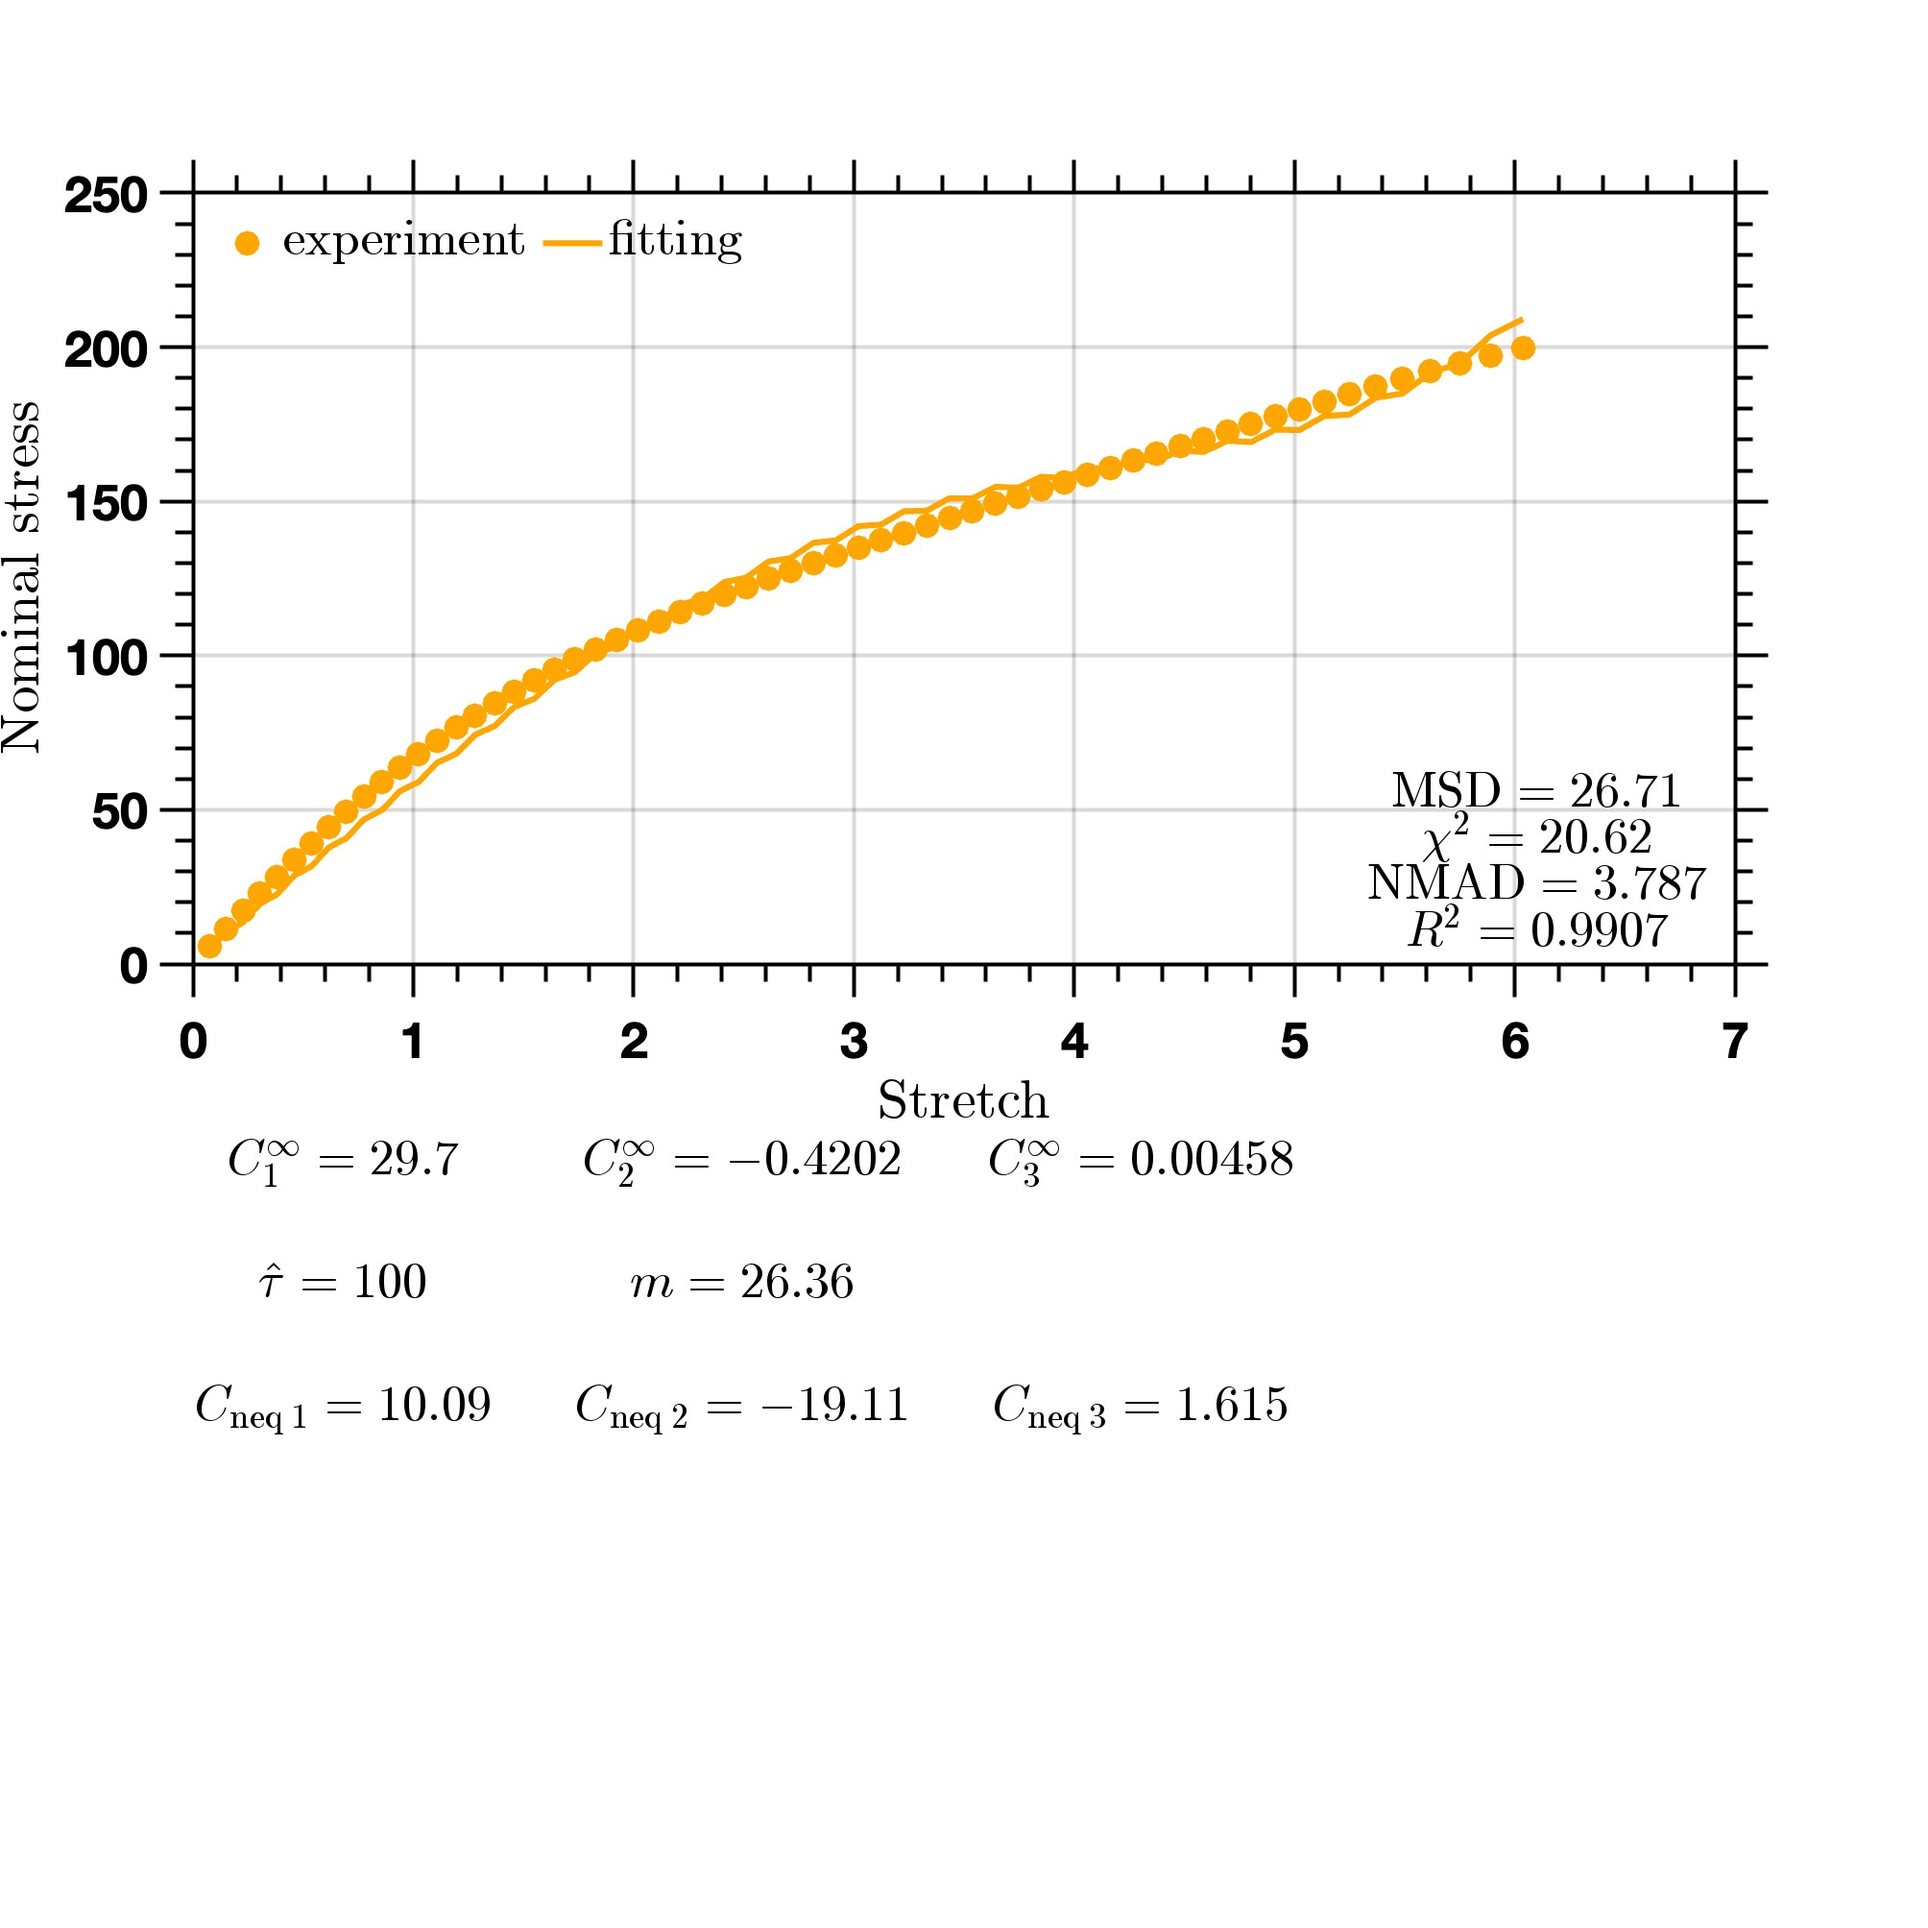
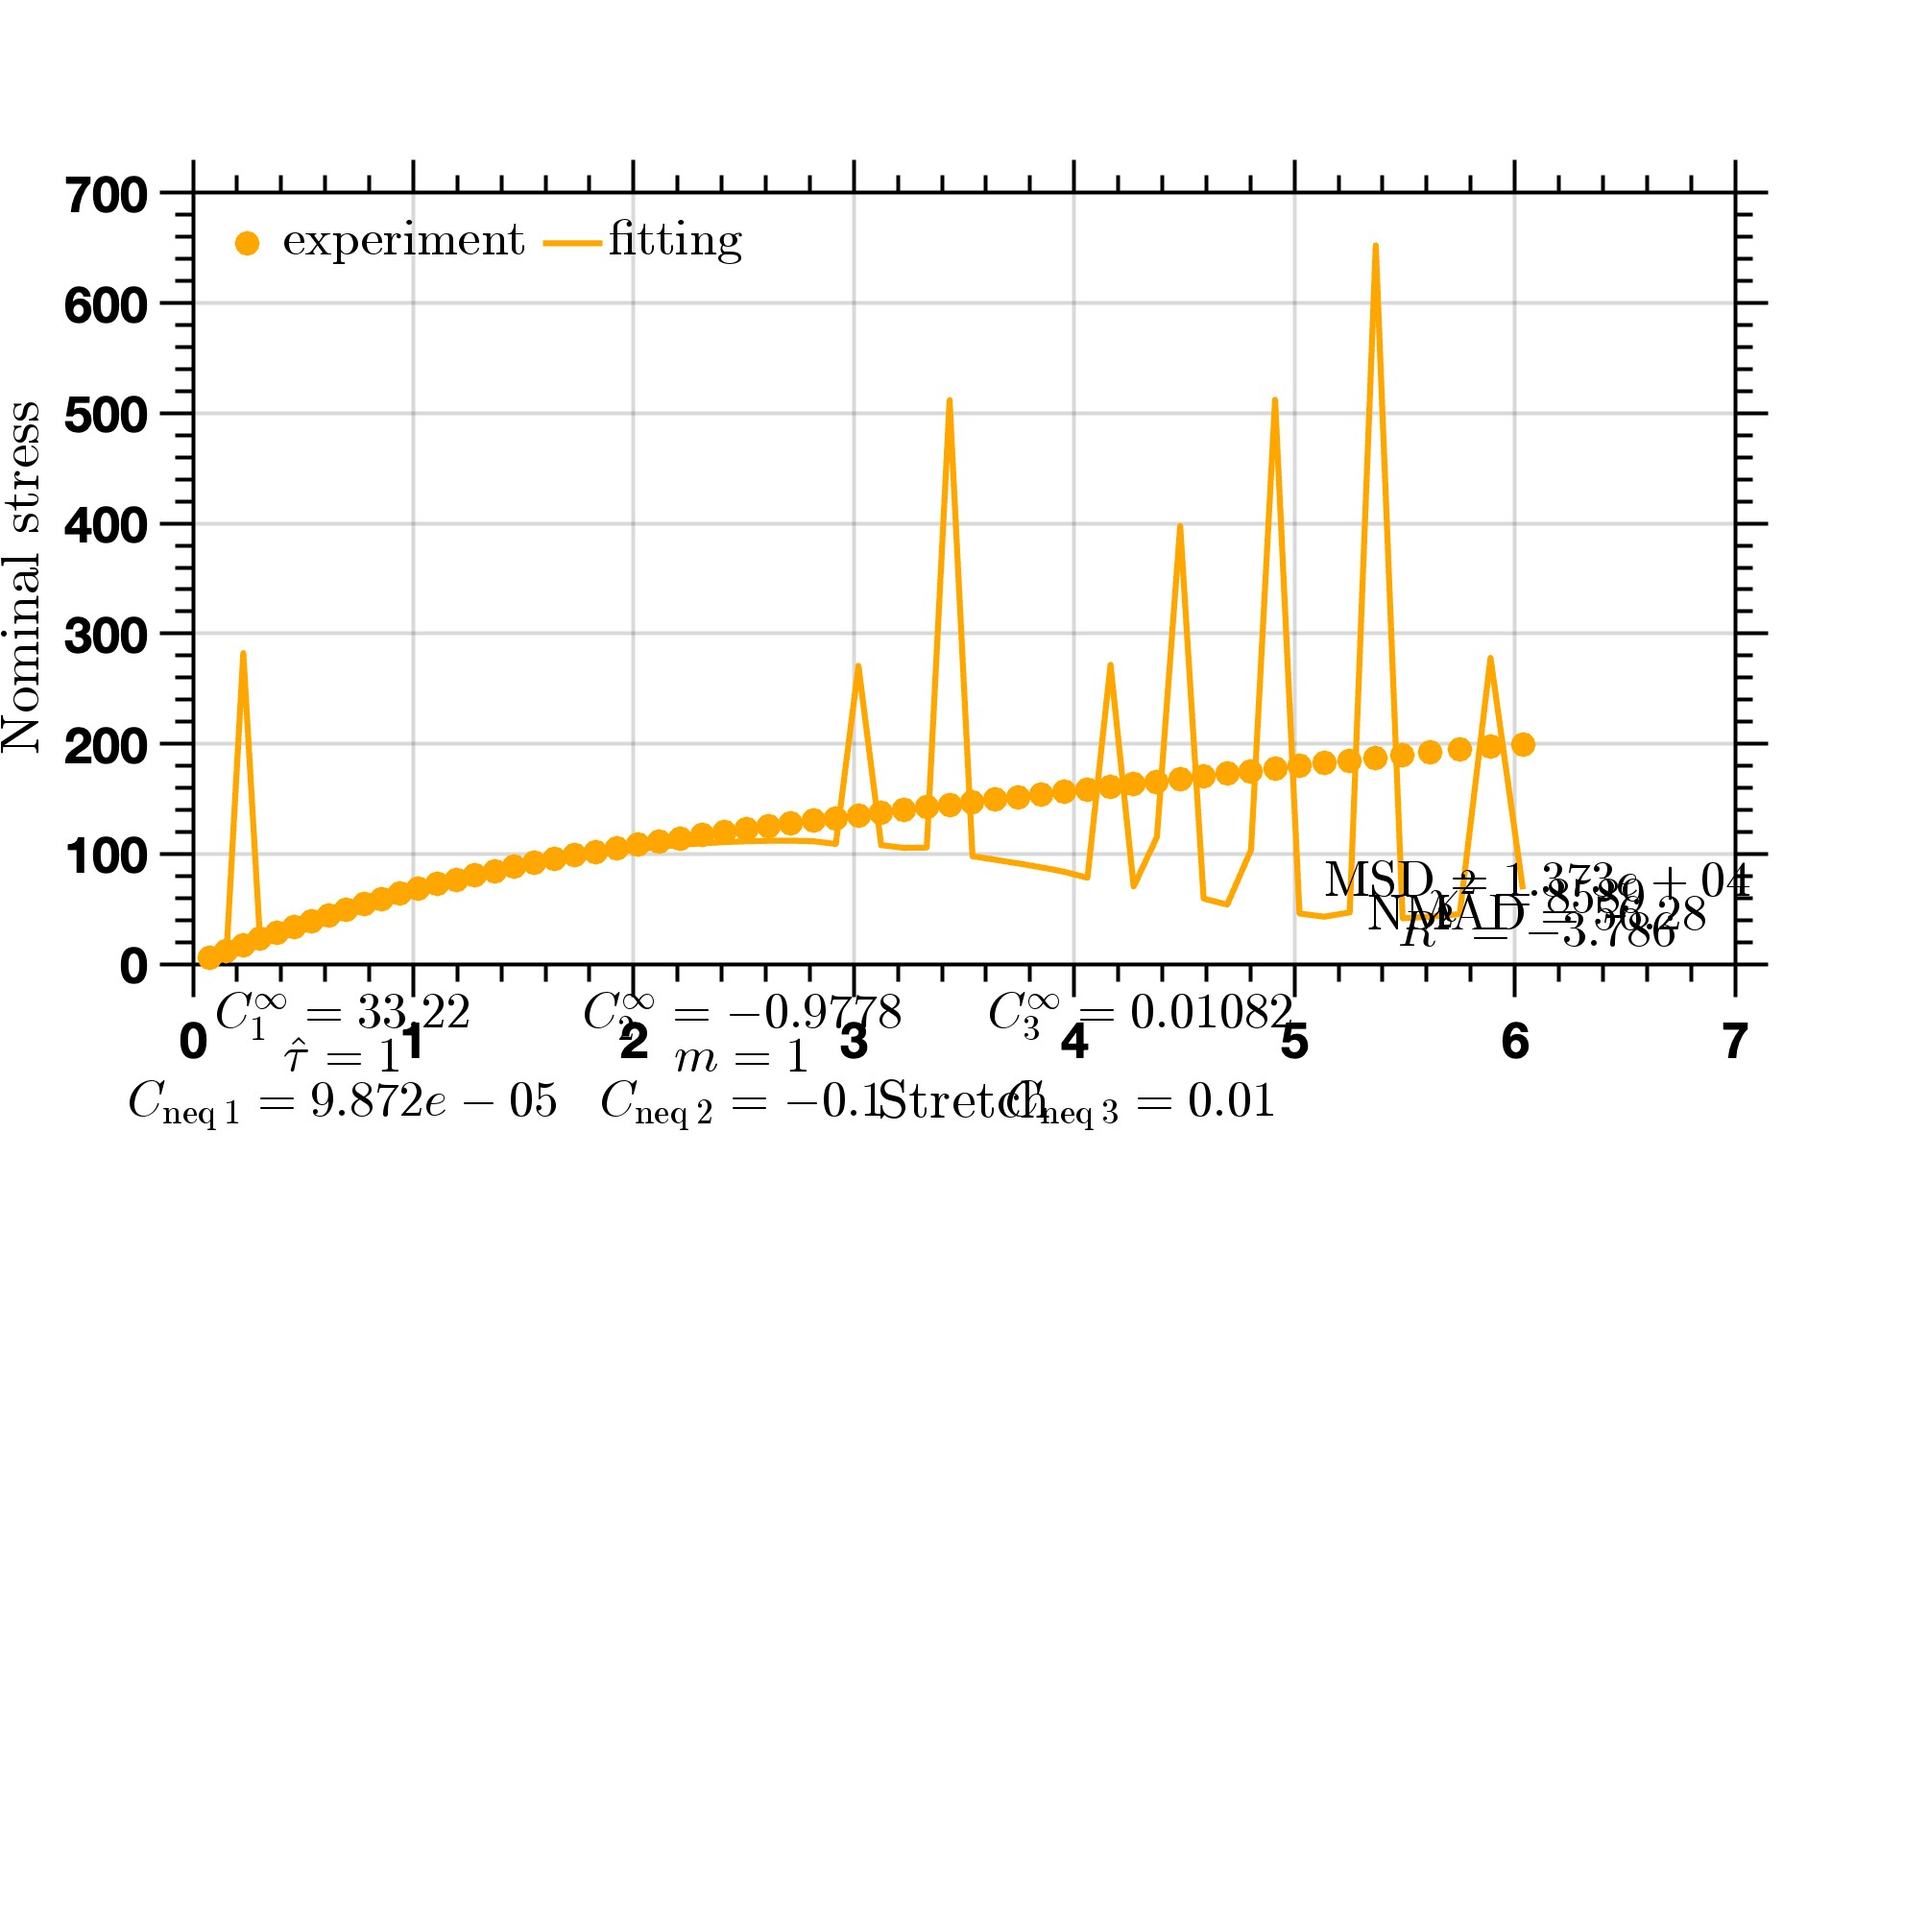
update

diff --git a/power_law_Yeoh_shear/src/get_S_iso_eq.m b/power_law_Yeoh_shear/src/get_S_iso_eq.m
@@ -1,18 +1,25 @@
-% mu_eq and alpha_eq are parameter arrays
-% F is the 3x3 deformation gradient at one specific time
-% out is a 3x3 2nd PK stress tensor of equlibrium part at cooresponding time
-
 function out = get_S_iso_eq(xi_eq, F)
 C = transpose(F)*F;
 [V, D] = eig(C);
-I1 = D(1,1) + D(2,2) + D(3,3);
+N1 = V(:,1);
+N2 = V(:,2);
+N3 = V(:,3);
 lambda1 = sqrt(D(1,1));
 lambda2 = sqrt(D(2,2));
 lambda3 = sqrt(D(3,3));
+lambda1_bar = lambda1 / (lambda1*lambda2*lambda3);
+lambda2_bar = lambda2 / (lambda1*lambda2*lambda3);
+lambda3_bar = lambda3 / (lambda1*lambda2*lambda3);
+I1_bar = lambda1_bar*lambda1_bar + lambda2_bar*lambda2_bar + lambda3_bar*lambda3_bar;
 
-eig_val_S_eq = [dPsi_dlambda_eq(xi_eq, I1, lambda1) / lambda1;...
-                dPsi_dlambda_eq(xi_eq, I1, lambda2) / lambda2;...
-                dPsi_dlambda_eq(xi_eq, I1, lambda3) / lambda3];
-out = tensor_product(V, eig_val_S_eq);
+summation = lambda1_bar * dPsi_dlambda_eq(xi_eq, I1_bar, lambda1_bar)...
+          + lambda2_bar * dPsi_dlambda_eq(xi_eq, I1_bar, lambda2_bar)...
+          + lambda3_bar * dPsi_dlambda_eq(xi_eq, I1_bar, lambda3_bar);
+summation = summation / 3.0;
+
+S_eq_1 = (lambda1_bar * dPsi_dlambda_eq(xi_eq, I1_bar, lambda1_bar) - summation) / lambda1^2;
+S_eq_2 = (lambda2_bar * dPsi_dlambda_eq(xi_eq, I1_bar, lambda2_bar) - summation) / lambda2^2;
+S_eq_3 = (lambda3_bar * dPsi_dlambda_eq(xi_eq, I1_bar, lambda3_bar) - summation) / lambda3^2;
+out = tensor_product(S_eq_1, S_eq_2, S_eq_3, N1, N2, N3);
 end
 % EOF

diff --git a/power_law_Yeoh_shear/src/get_S_iso_neq.m b/power_law_Yeoh_shear/src/get_S_iso_neq.m
@@ -1,21 +1,4 @@
-% mu_neq and alpha_neq are parameter arrays with same length
-% F is the 3x3 deformation gradient at one specific time
-% be is the elastic left-Cauchy Green strain tensor at one specific time
-% out is a 3x3 2nd PK stress tensor of none-equlibrium part at cooresponding time
-
-function out = get_S_iso_neq(xi_neq, Fe, F)
-Fv = F * inv(Fe);
-Ce = Fe' * Fe;
-[V, D] = eig(Ce);
-I1 = D(1,1) + D(2,2) + D(3,3);
-lambda1 = sqrt(D(1,1));
-lambda2 = sqrt(D(2,2));
-lambda3 = sqrt(D(3,3));
-
-eig_val_S_eq = [dPsi_dlambda_eq(xi_neq, I1, lambda1) / lambda1;...
-                dPsi_dlambda_eq(xi_neq, I1, lambda2) / lambda2;...
-                dPsi_dlambda_eq(xi_neq, I1, lambda3) / lambda3];
-out = tensor_product(V, eig_val_S_eq);
-out = inv(Fv) * out * inv(Fv');
+function out = get_S_iso_neq(xi_neq, be, F)
+out = inv(F) * get_tau_iso_neq(xi_neq, be) * inv(transpose(F));
 end
 % EOF

diff --git a/power_law_Yeoh_shear/src/get_tau_iso_neq.m b/power_law_Yeoh_shear/src/get_tau_iso_neq.m
@@ -1,0 +1,14 @@
+function out = get_tau_iso_neq(xi_neq, be)
+[V, D] = eig(be);
+lambda1 = sqrt(D(1,1));
+lambda2 = sqrt(D(2,2));
+lambda3 = sqrt(D(3,3));
+N1 = V(:,1);
+N2 = V(:,2);
+N3 = V(:,3);
+I1 = D(1,1) + D(2,2) + D(3,3);
+tau_1 = dPsi_dlambda_neq(xi_neq, I1, lambda1) * lambda1 - dPsi_dlambda_neq(xi_neq, I1, lambda2) * lambda2 / 3.0 - dPsi_dlambda_neq(xi_neq, I1, lambda3) * lambda3 / 3.0;
+tau_2 = dPsi_dlambda_neq(xi_neq, I1, lambda2) * lambda2 - dPsi_dlambda_neq(xi_neq, I1, lambda3) * lambda3 / 3.0 - dPsi_dlambda_neq(xi_neq, I1, lambda1) * lambda1 / 3.0;
+tau_3 = dPsi_dlambda_neq(xi_neq, I1, lambda3) * lambda3 - dPsi_dlambda_neq(xi_neq, I1, lambda2) * lambda2 / 3.0 - dPsi_dlambda_neq(xi_neq, I1, lambda1) * lambda1 / 3.0;
+out = tensor_product(tau_1, tau_2, tau_3, N1, N2, N3);
+end

diff --git a/power_law_Yeoh_shear/src/get_be_t.m b/power_law_Yeoh_shear/src/get_be_t.m
@@ -1,0 +1,23 @@
+function out = get_be_t(time, xi_neq, tau_hat, power_m , Ft)
+out = zeros(size(Ft));
+for ii = 1:length(time)
+        if ii == 1
+            dt = time(ii);
+            be_tr = eye(3);
+            be_old = eye(3);
+        else
+            dt = time(ii) - time(ii-1);
+            be_old = out(:,:,ii-1);
+            F_old = Ft(:,:,ii-1);
+            Cv_inv_old = get_Cv_inv(F_old, be_old);
+            F_new = Ft(:,:,ii);
+            be_tr = F_new * Cv_inv_old * F_new';
+        end
+        tau_iso_neq_tr = get_tau_iso_neq(xi_neq, be_tr);
+        tau_v_tr = get_norm(tau_iso_neq_tr) / sqrt(2);
+        N_tr = get_N(xi_neq, be_tr);
+        incremental = -2.0 * (tau_v_tr / tau_hat)^power_m * dt .* N_tr;
+        out(:,:,ii) = incremental + be_tr;
+end
+end
+% EOF

diff --git a/power_law_Yeoh_shear/src/tensor_product.m b/power_law_Yeoh_shear/src/tensor_product.m
@@ -1,8 +1,7 @@
 % D is a 1x3 vector containing three eigenvalues
 % V is a 3x3 matrix containing three cooresponidng eigenvectors
-function out = tensor_product(V, D)
-out = zeros(3,3);
-out = out + D(1) .* kron(V(:,1), V(:,1)');
-out = out + D(2) .* kron(V(:,2), V(:,2)');
-out = out + D(3) .* kron(V(:,3), V(:,3)');
+function out = tensor_product(e1, e2, e3, N1, N2, N3)
+out = e1 .* kron(N1, N1');
+out = out + e2 .* kron(N2, N2');
+out = out + e3 .* kron(N3, N3');
 end

diff --git a/power_law_Yeoh_shear/src/get_P_iso_neq_list.m b/power_law_Yeoh_shear/src/get_P_iso_neq_list.m
@@ -5,10 +5,10 @@
 % be_t is the strain tensor array of total loading case with size of (3, 3, length of data)
 % out is the same size of Ft
 
-function out = get_P_iso_neq_list(xi_neq, Fe_t, Ft)
+function out = get_P_iso_neq_list(xi_neq, be_t, Ft)
 out = zeros(size(Ft));
 for ii=1:size(Ft, 3)
-out(:,:,ii) = get_P_iso_neq(xi_neq, Fe_t(:,:,ii), Ft(:,:,ii));
+out(:,:,ii) = get_P_iso_neq(xi_neq, be_t(:,:,ii), Ft(:,:,ii));
 end
 end
 % EOF

diff --git a/power_law_Yeoh_shear/src/get_P_iso_list.m b/power_law_Yeoh_shear/src/get_P_iso_list.m
@@ -1,4 +1,4 @@
 function out = get_P_iso_list(xi_eq, xi_neq, tau_hat, power_m, Ft, time)
-Fe_t = get_Fe_t(time, xi_neq, tau_hat, power_m, Ft);
-out = get_P_iso_eq_list(xi_eq, Ft) + get_P_iso_neq_list(xi_neq, Fe_t, Ft);
+be_t = get_be_t(time, xi_neq, tau_hat, power_m, Ft);
+out = get_P_iso_eq_list(xi_eq, Ft) + get_P_iso_neq_list(xi_neq, be_t, Ft);
 end

diff --git a/power_law_Yeoh_shear/monotonic_shear_driver.m b/power_law_Yeoh_shear/monotonic_shear_driver.m
@@ -13,9 +13,9 @@ Ft(2,2,:) = 1.0;
 Ft(3,3,:) = 1.0;
 Ft(1,2,:) = gamma(:);
 
-xi_eq = [1.0, 1.0, 1.0];
-xi_neq = [1.0, 1.0, 1.0];
-tau_hat = 1.0e2;
+xi_eq = [1.0e-4, -1.0e-1, 1.0e-2];
+xi_neq = [1.0e-4, -1.0e-1, 1.0e-2];
+tau_hat = 1.0;
 power_m = 1.0;
 
 [paras0, lb, ub] = array_to_paras(xi_eq, xi_neq, tau_hat, power_m);

diff --git a/power_law_Yeoh_shear/src/get_Cv_inv.m b/power_law_Yeoh_shear/src/get_Cv_inv.m
@@ -1,0 +1,8 @@
+% The function is used to get the inverse Cv based
+% on the multiplicative decomposition
+% refer to eqn. (10) of Reese & Govindjee 1998 IJSS
+% F is a 3x3 dormation gradient
+% be is a 3x3 left-Cauchy Green strain tensor
+function out = get_Cv_inv(F, be)
+out = inv(F) * be * inv(transpose(F));
+end

diff --git a/power_law_Yeoh_shear/src/get_P_iso_neq.m b/power_law_Yeoh_shear/src/get_P_iso_neq.m
@@ -4,7 +4,7 @@
 % F is one 3x3 deformation gradient at specific time
 % be is one 3x3 strain tensor at specific time
 
-function out = get_P_iso_neq(xi_neq, Fe, F)
-out = F * get_S_iso_neq(xi_neq, Fe, F);
+function out = get_P_iso_neq(xi_neq, be, F)
+out = F * get_S_iso_neq(xi_neq, be, F);
 end
 % EOF

diff --git a/power_law_Yeoh_shear/src/plot_result.m b/power_law_Yeoh_shear/src/plot_result.m
@@ -5,7 +5,7 @@ Ft(1,1,:) = 1.0;
 Ft(2,2,:) = 1.0;
 Ft(3,3,:) = 1.0;
 Ft(1,2,:) = gamma(:);
-[xi_eq, xi_neq, tau_hat, power_m] = paras_to_array(paras);
+[xi_eq, xi_neq, tau_hat, power_m] = paras_to_array(paras)
 P_pre = get_P_ij_list(1, 2, xi_eq, xi_neq, tau_hat, power_m, Ft, time);
 
 switch mode

diff --git a/power_law_Yeoh_shear/test.m b/power_law_Yeoh_shear/test.m
@@ -18,4 +18,4 @@ xi_neq = [1.0, 1.0e-1, 1.0e-2];
 tau_hat = 1.0e2;
 power_m = 1.0;
 
-out = get_Fe_t(time, xi_neq, tau_hat, power_m , Ft)
+out = get_be_t(time, xi_neq, tau_hat, power_m , Ft)
